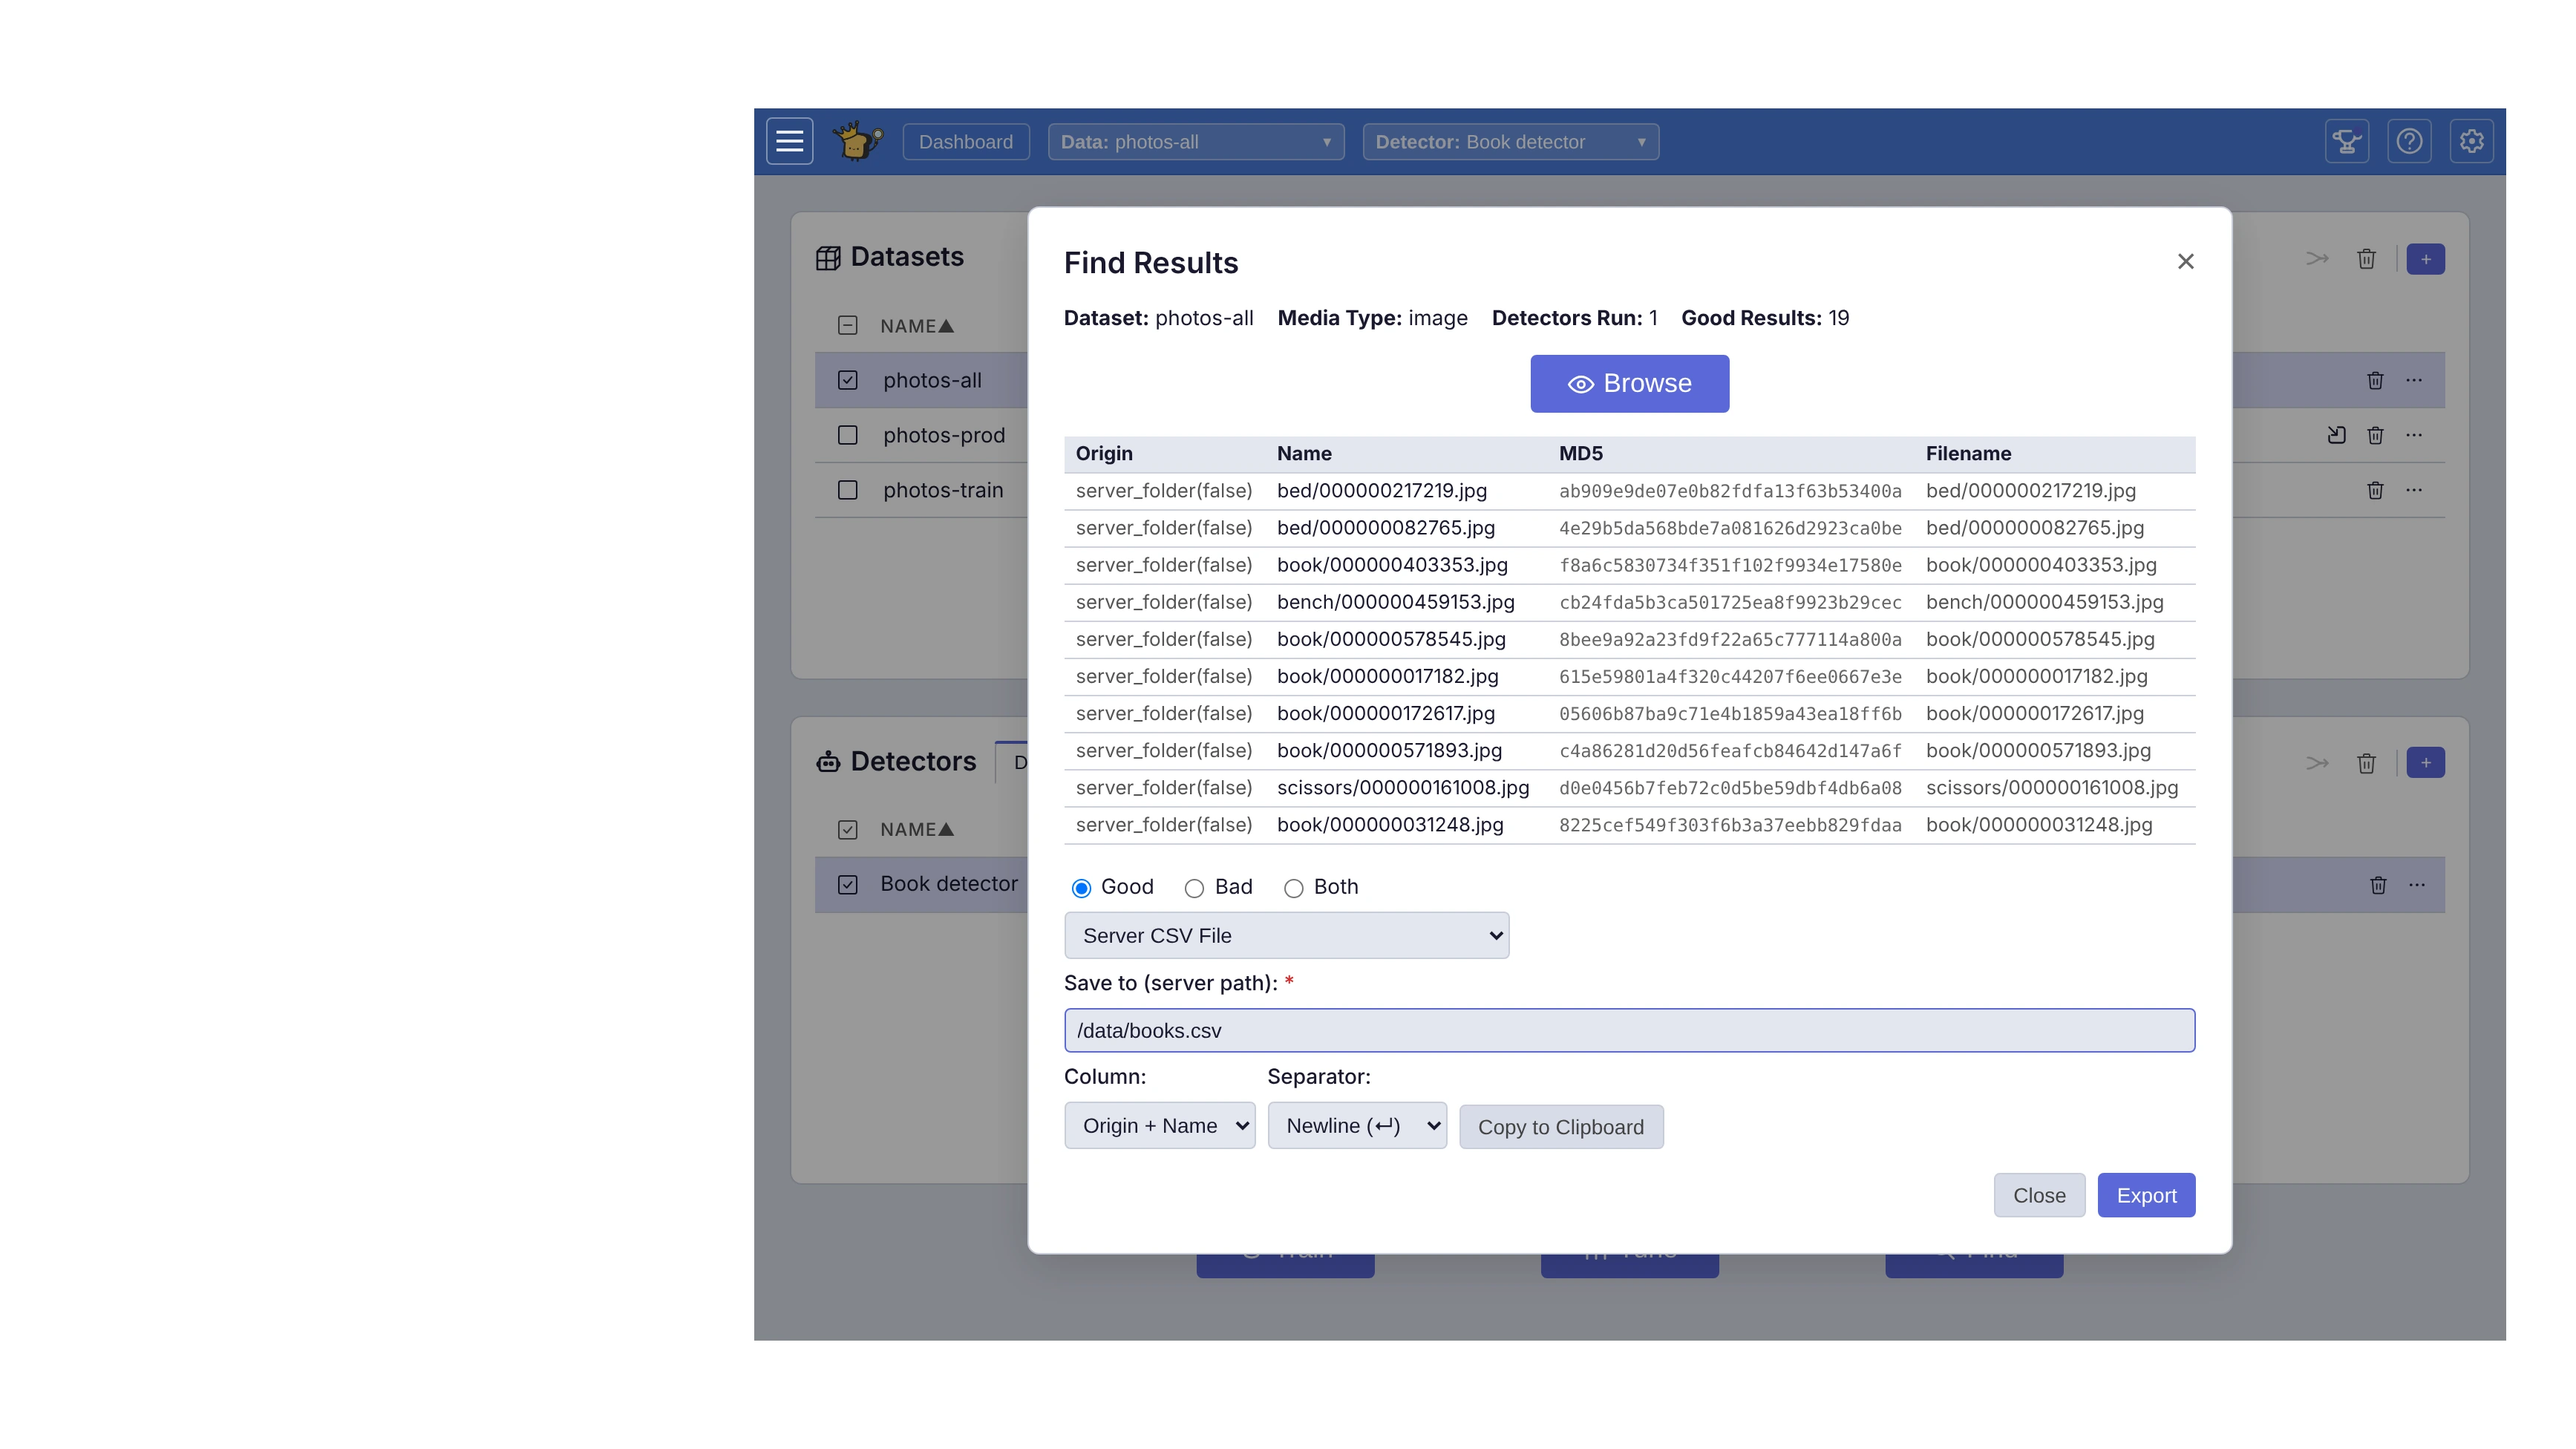
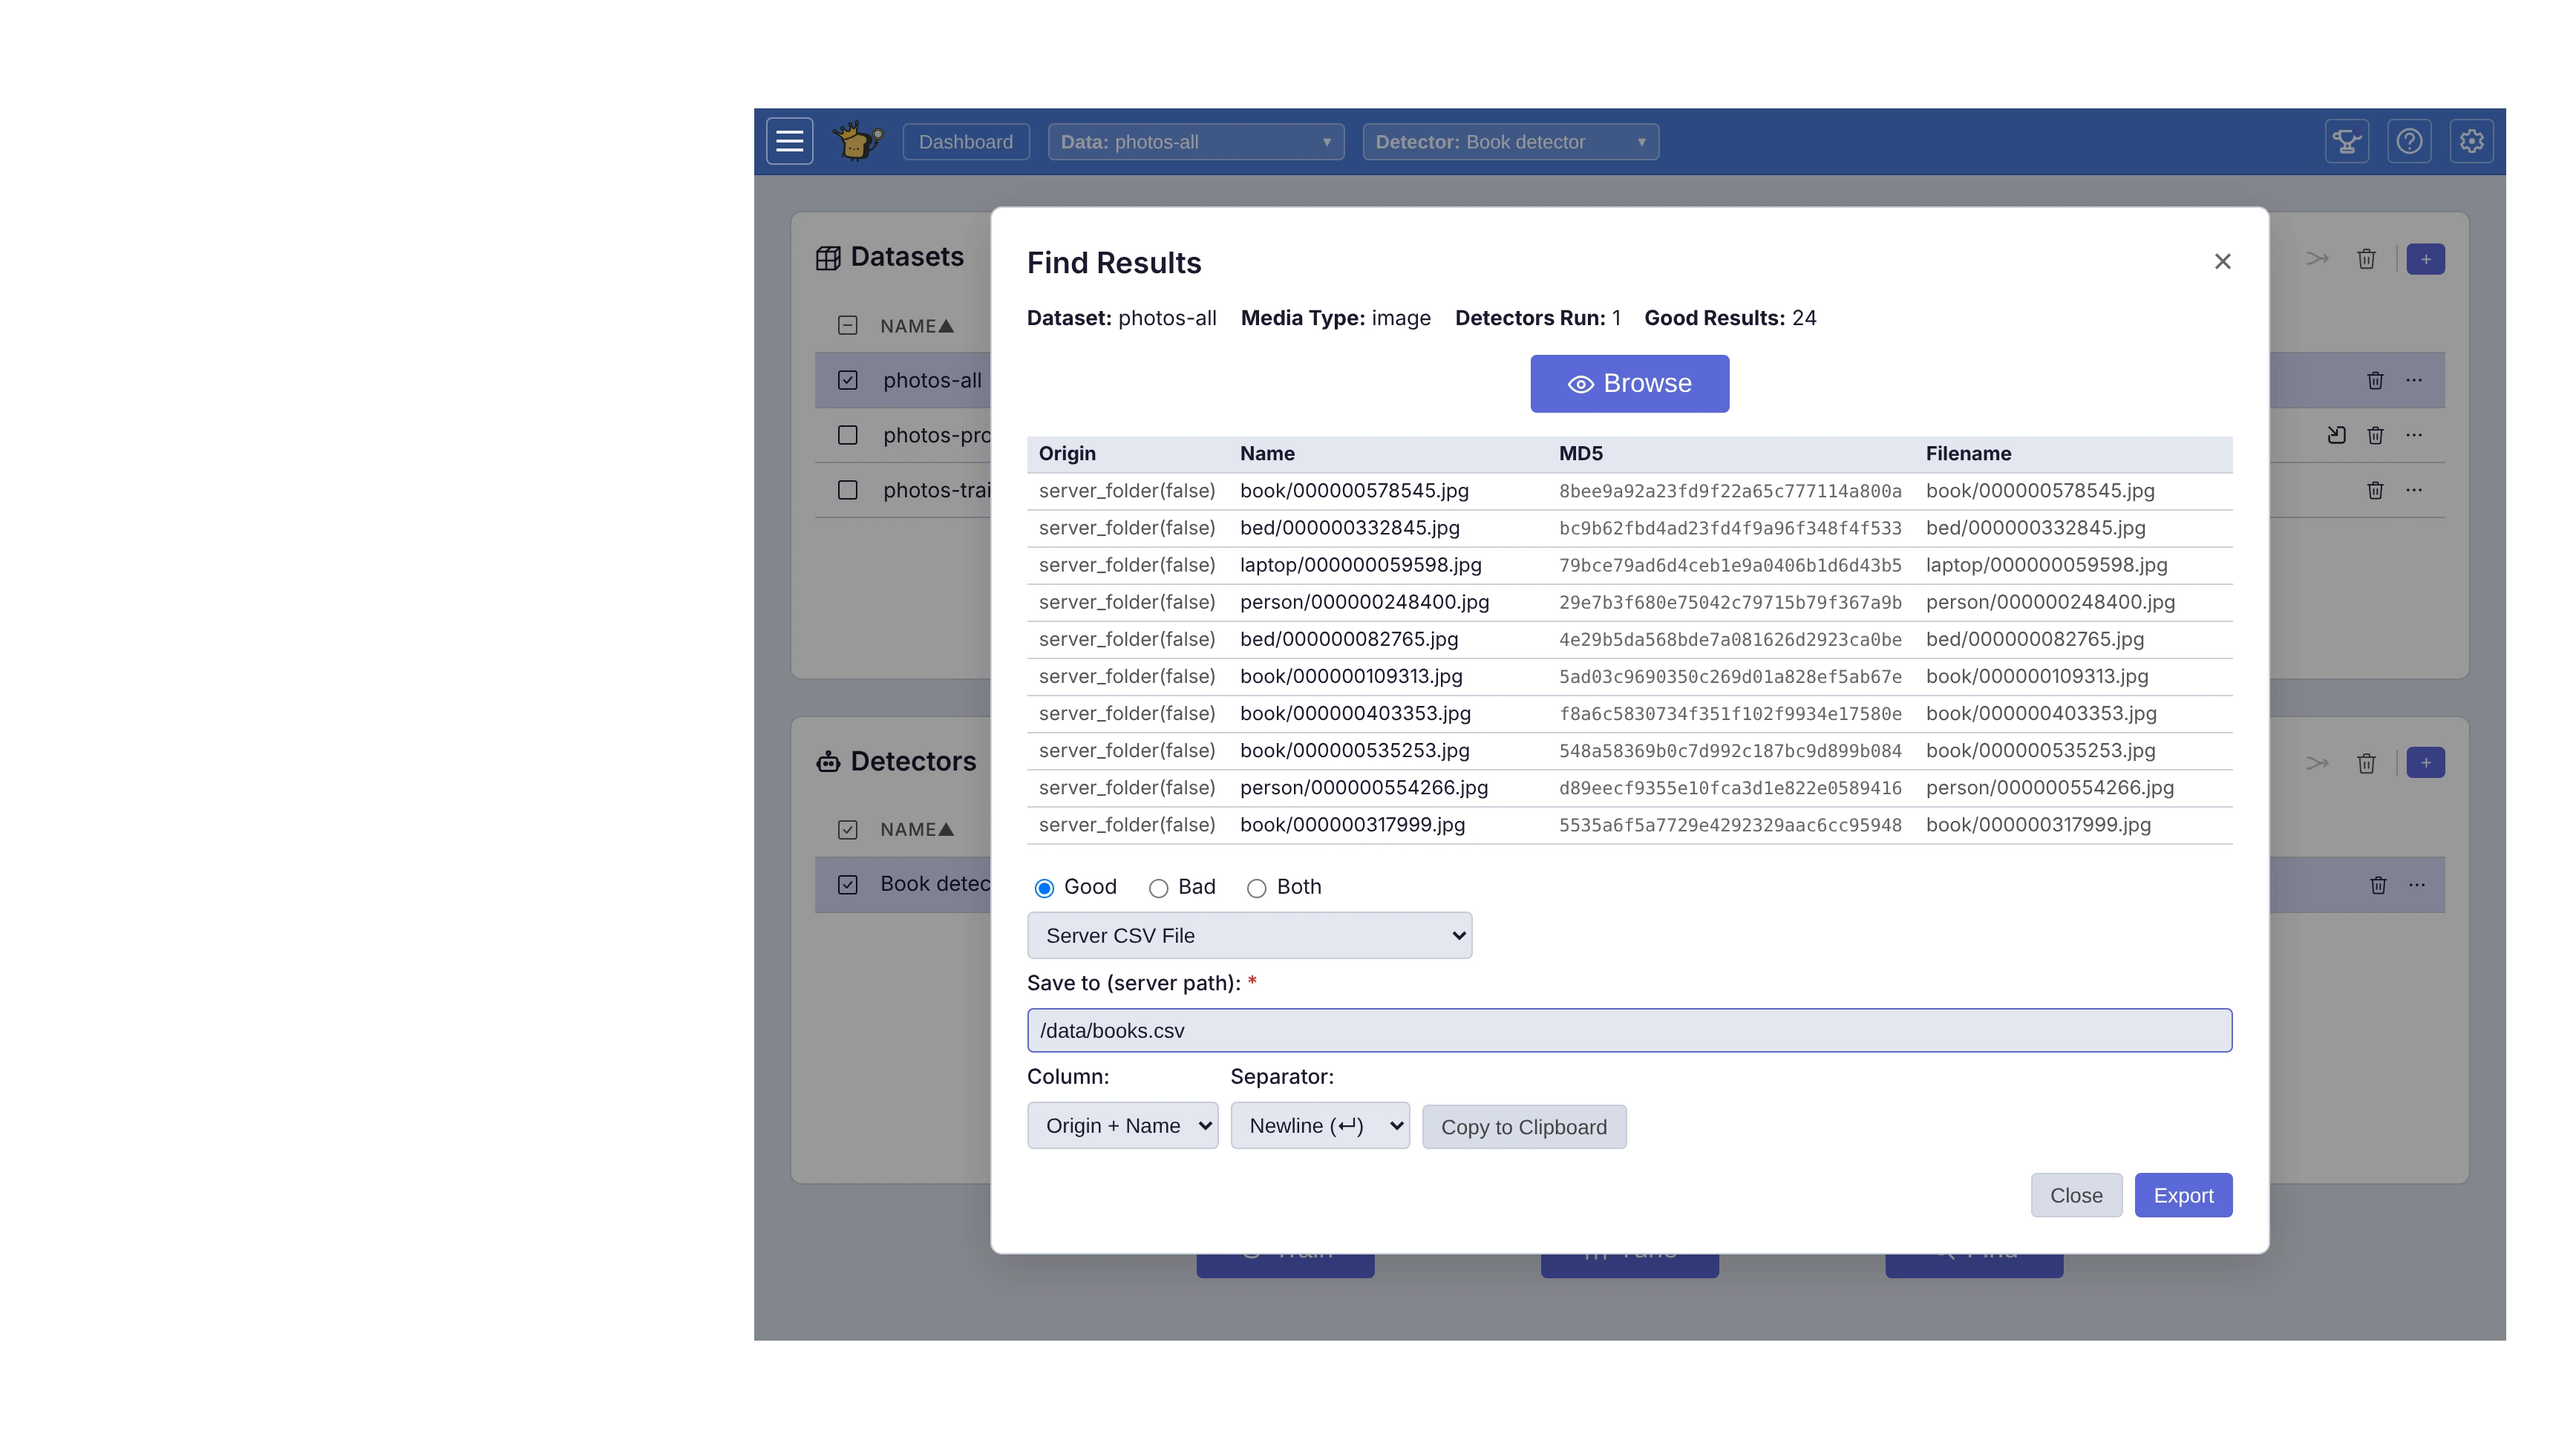
Slides (#5203): Lost & Found shows the whole map
The map of Find's results was shot one "Bigger thumbnails" step in,
which zoomed its single bin level and cut off the tiles at the map's
edges. It is now shot at the fit (BROWSE_RESULTS_SIZE_STEPS = 0), the
furthest out the canvas goes and the framing that holds every tile,
so the whole canvas shows and the thumbnails sit closer together.

Reshot for real, with the click-by-click session's detector rather
than browse's staged votes, as the committed frames were. On today's
app that session ends at 30 votes (20 good, 10 bad) and Find over
photos-all keeps 24 photos, not 19, so the results list (build1) is
reshot from the same run as the map so the two pages agree, and the
notes now say 24 and describe the new map: reading in bed down here,
shelves up there, the pizza box apart.

Claude-Session: https://claude.ai/code/session_01Kwsjo9xjqvr2CQGUmDy7E9

Changed region(s): [[0.3735, 0.125, 0.9026, 0.875], [0.5602, 0.625, 0.5914, 0.6562]]

diff --git a/slides/fragments/vision-find.md b/slides/fragments/vision-find.md
@@ -8,16 +8,16 @@
 <!-- build: figs/ui-vision-find.build1.webp -->
 
 <!-- **a** — Here's Find inside the tool, on our biggest pile: every COCO
-     photo the training never saw. Back comes a list, 19 photos it thinks are
+     photo the training never saw. Back comes a list, 24 photos it thinks are
      books. Great for sending somewhere. Useless for looking. -->
 
-<!-- **b** — So hit Browse. The same 19, laid out as a map where look-alikes
-     land together: reading in bed over here, shelves down there. The odd ones
-     out, like the scissors, sit apart, so they're easy to spot. We'll come
+<!-- **b** — So hit Browse. The same 24, laid out as a map where look-alikes
+     land together: reading in bed down here, shelves up there. The odd ones
+     out, like the pizza box, sit apart, so they're easy to spot. We'll come
      back to that map. -->
 
-<!-- **c** — Remember Find's results from the start? Back then we got 19
+<!-- **c** — Remember Find's results from the start? Back then we got 24
      books, as a list. -->
 
-<!-- **d** — And Browse laid those 19 out as a map: that's the square UMAP
+<!-- **d** — And Browse laid those 24 out as a map: that's the square UMAP
      makes. Now the same map, for the whole pile. -->
